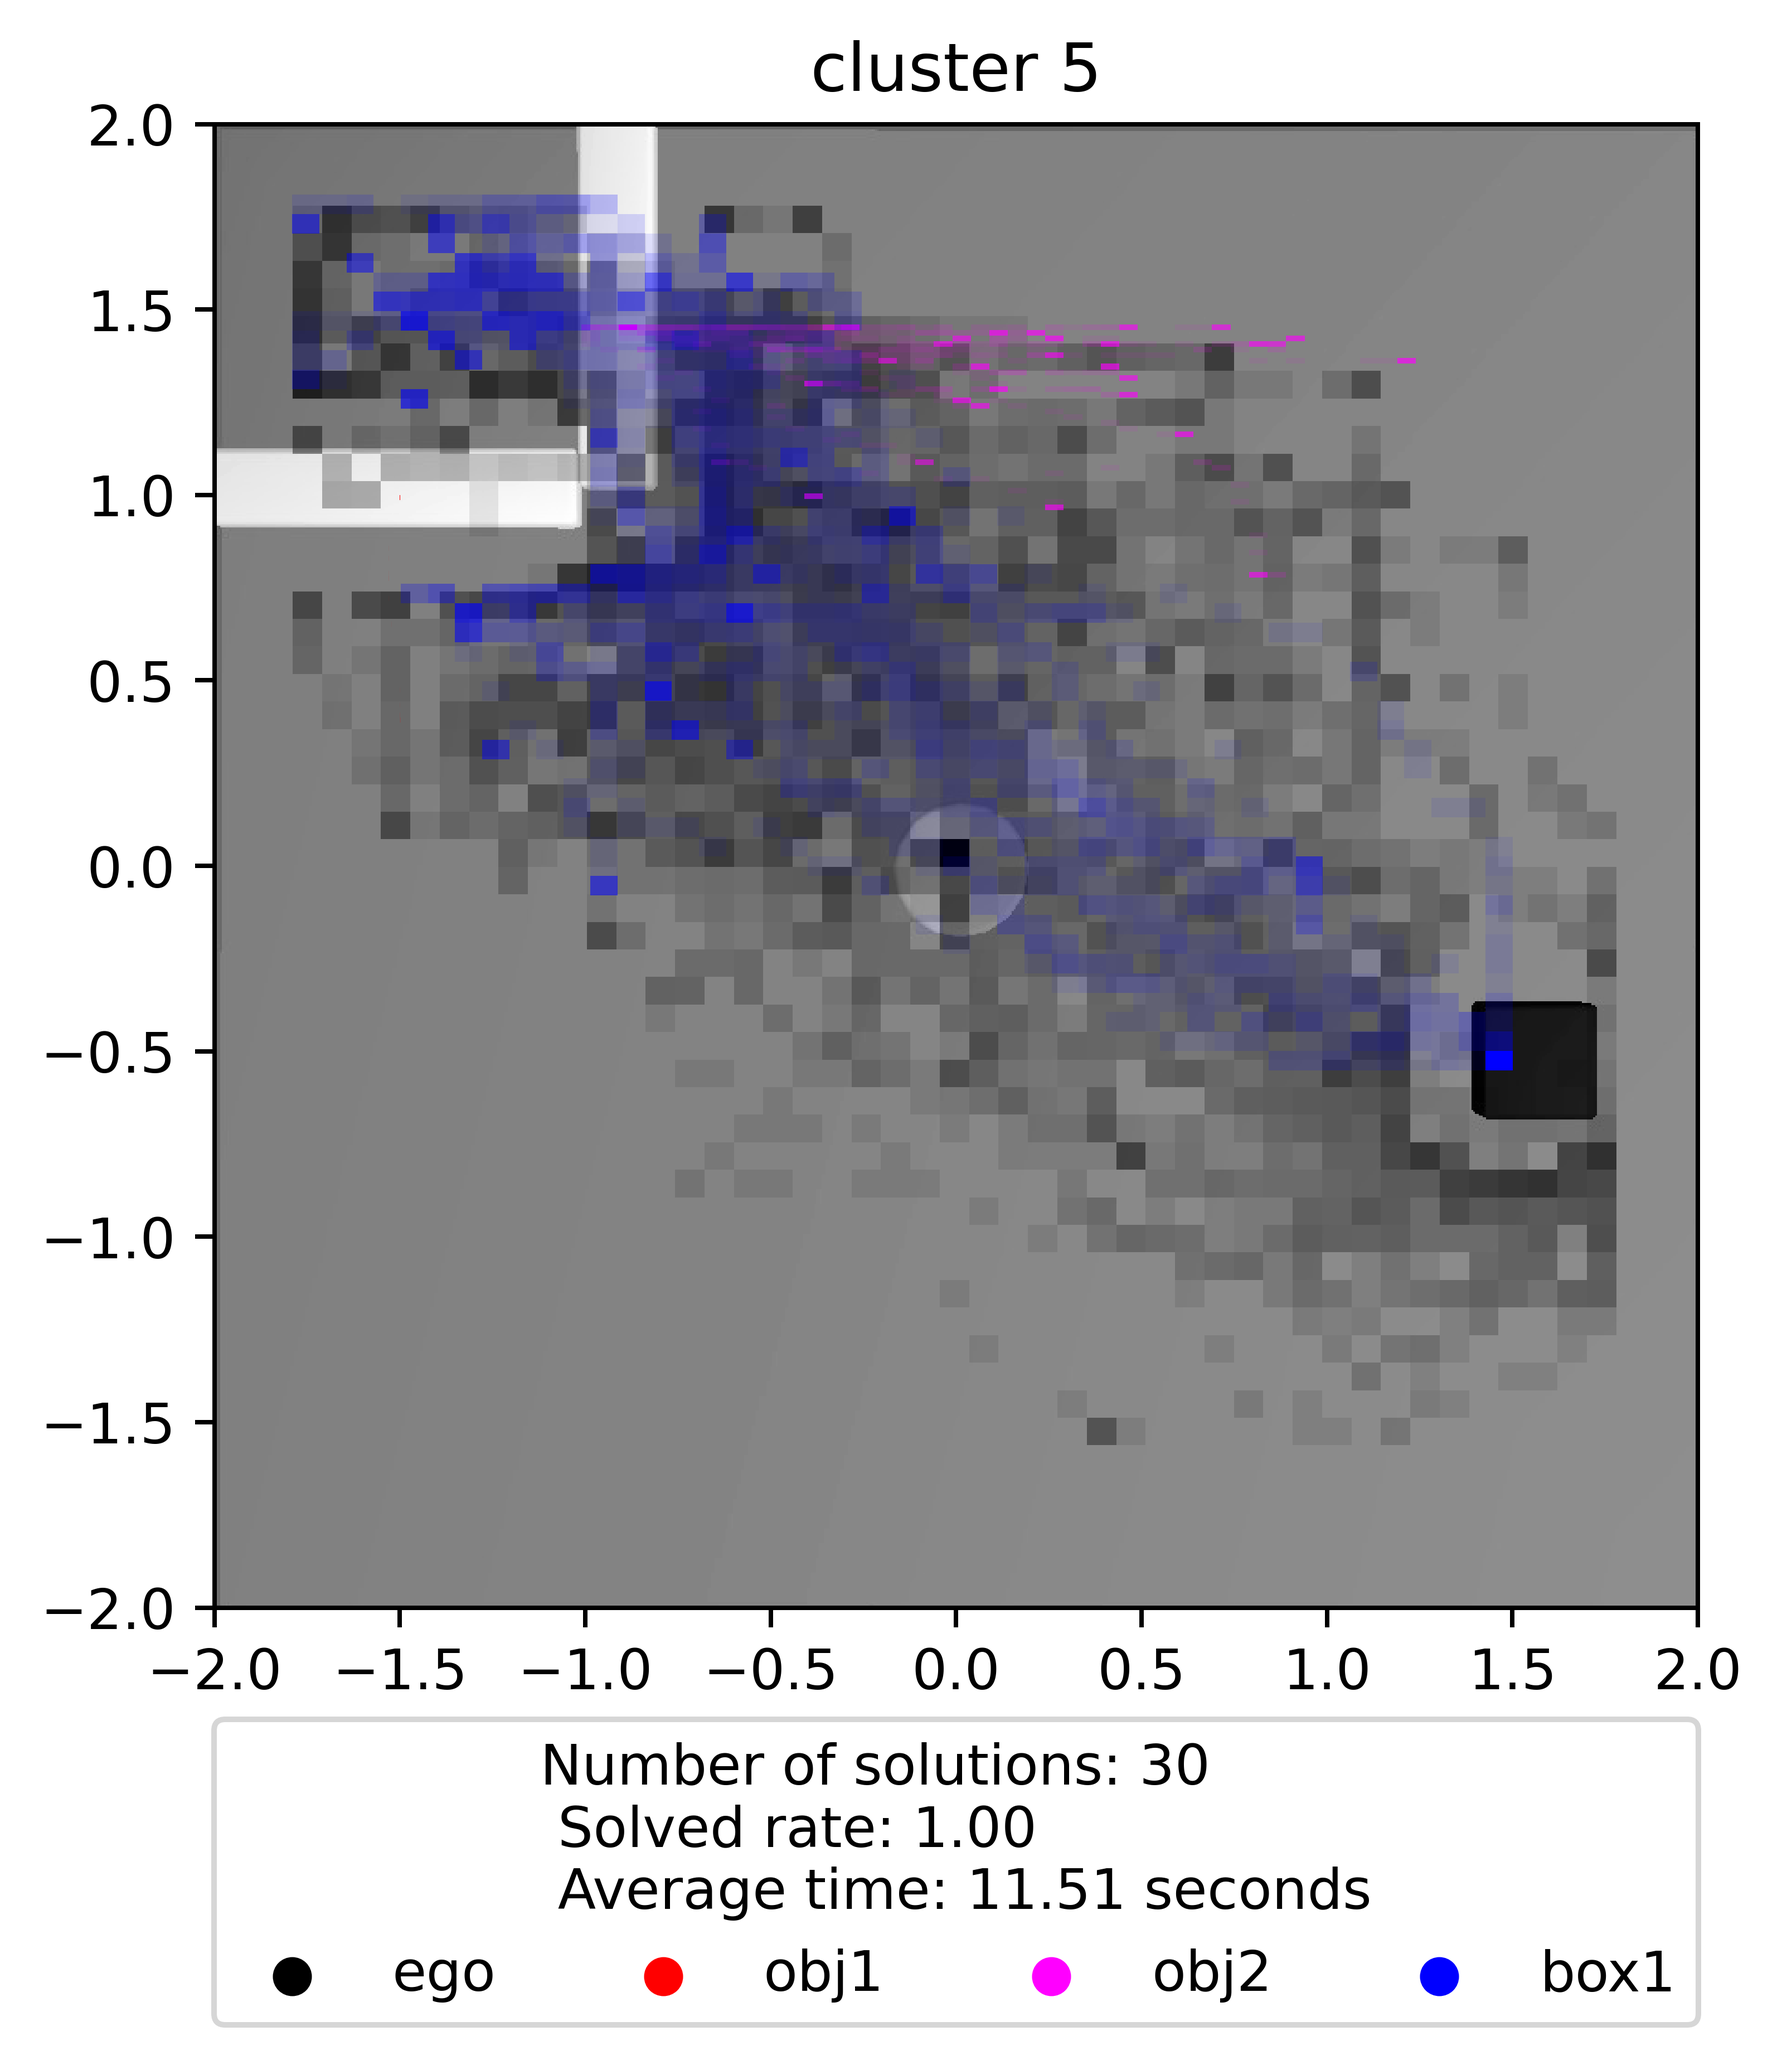
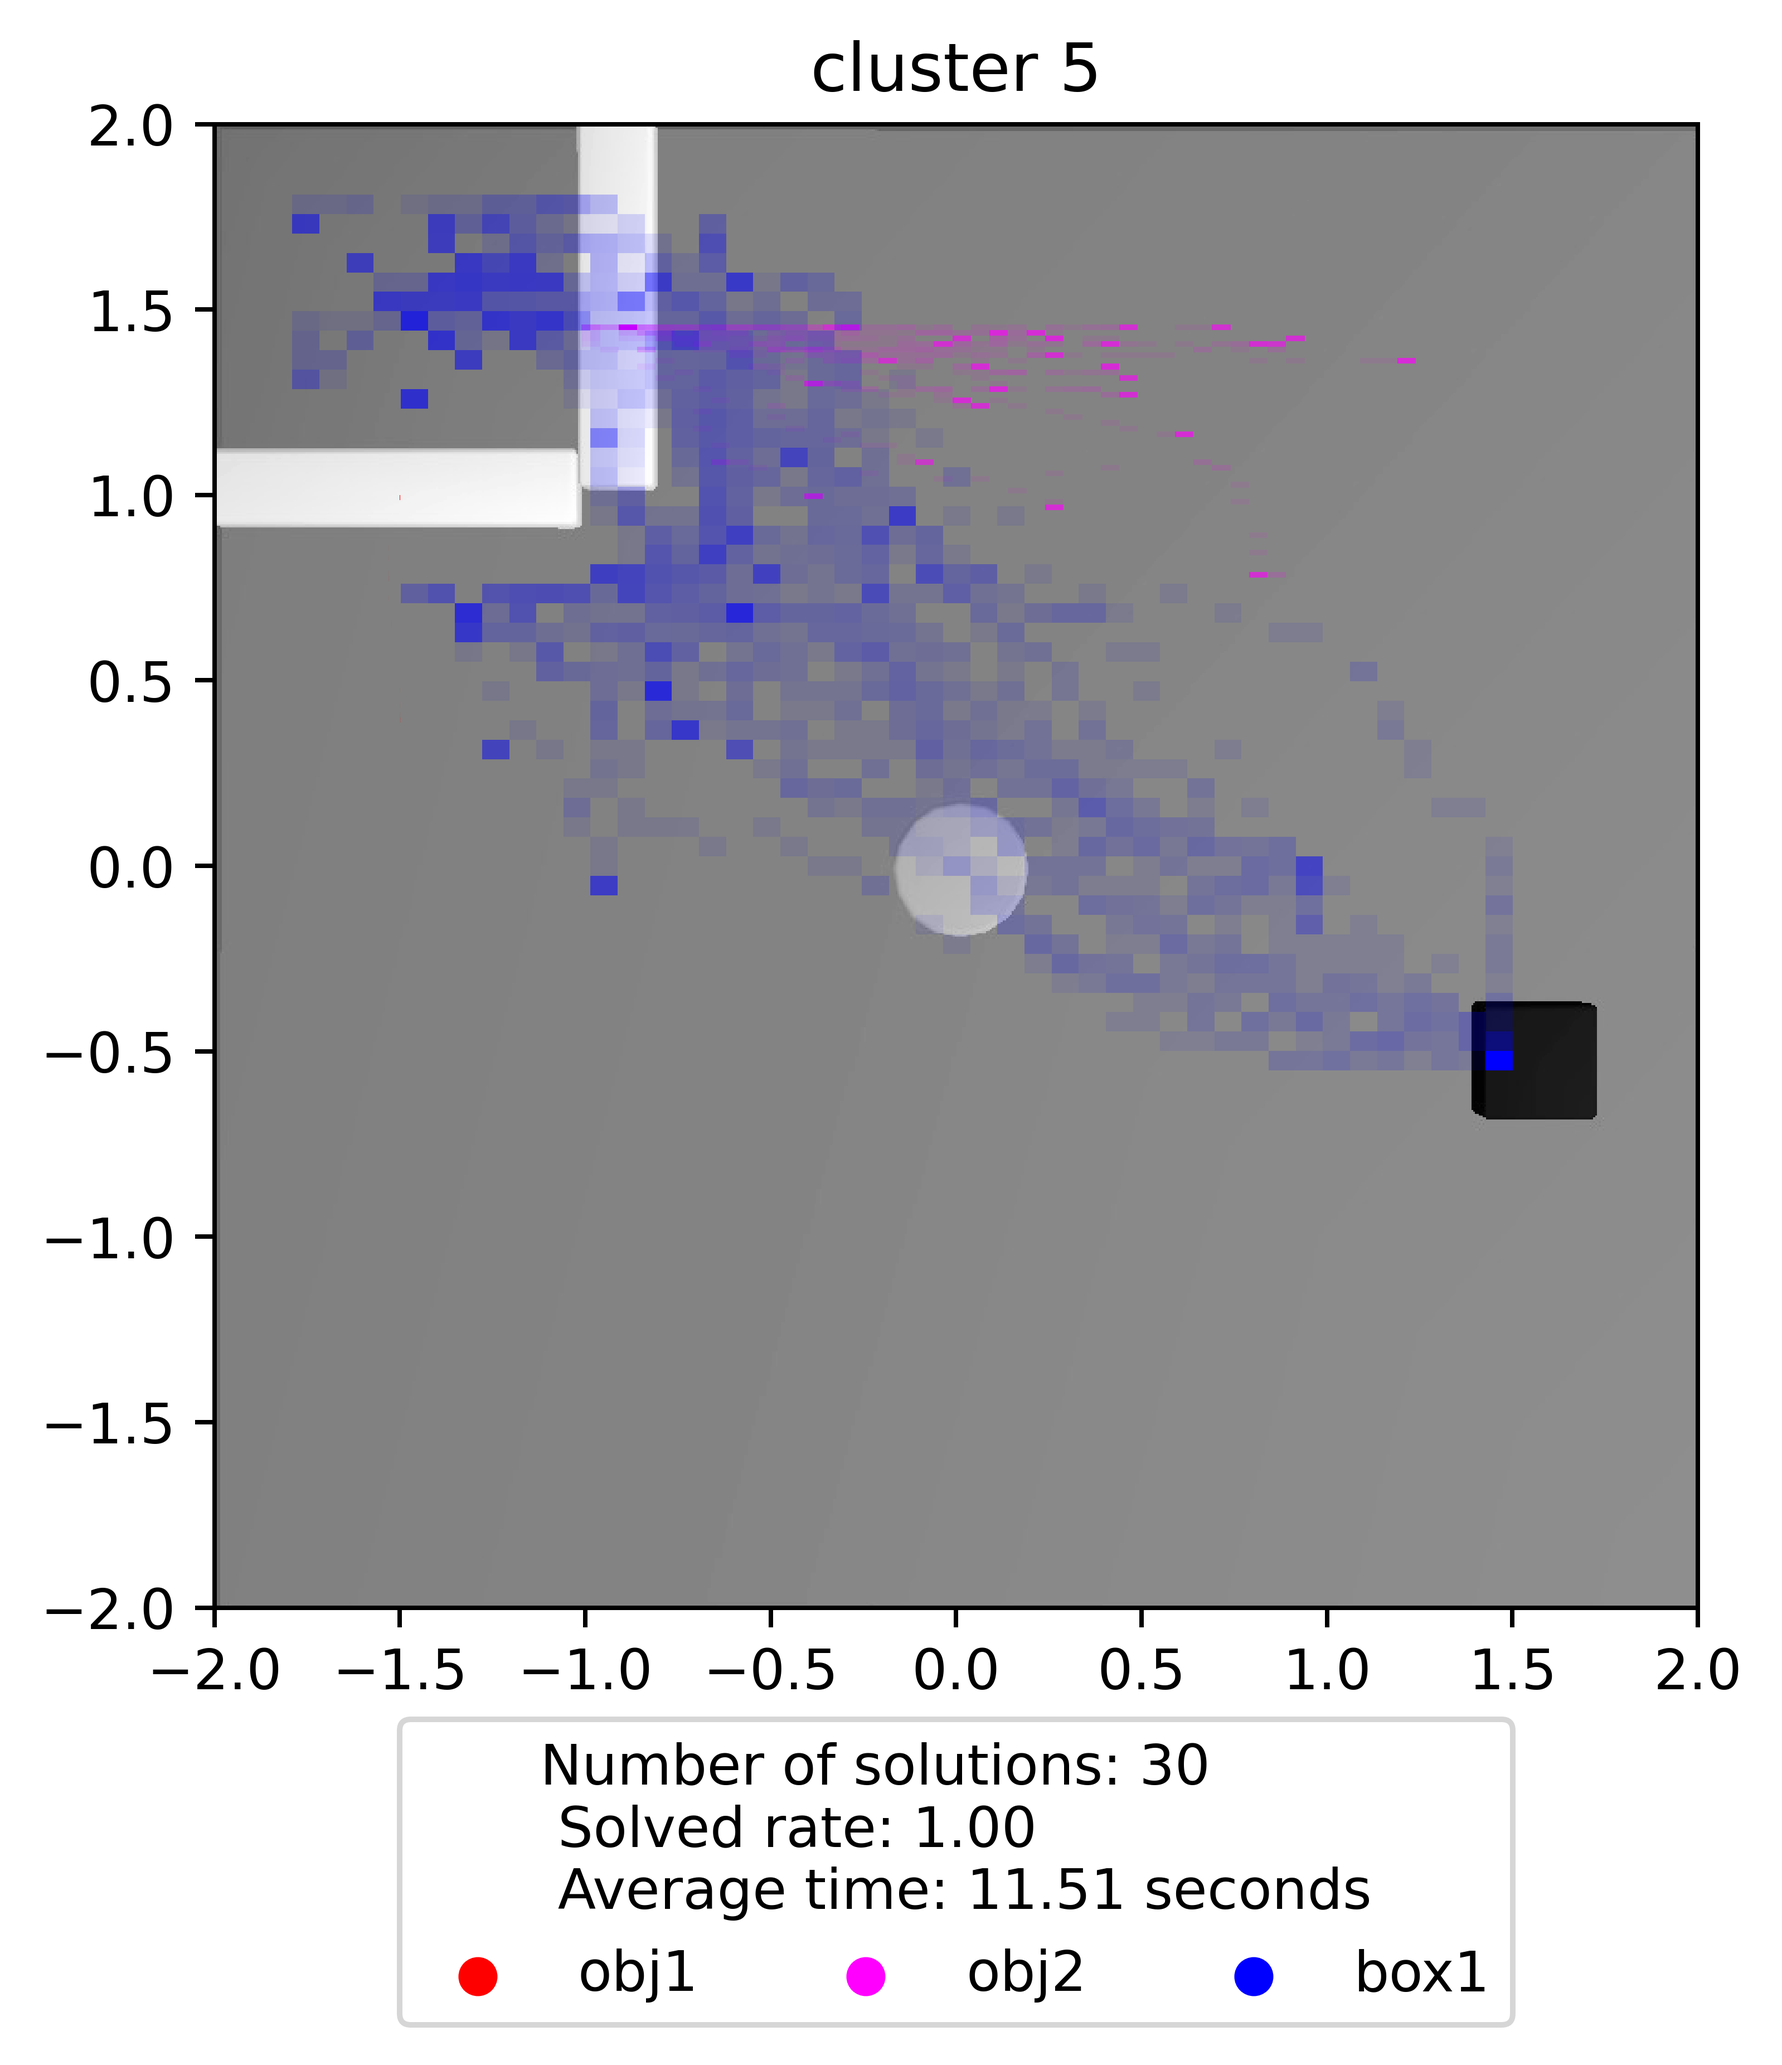
path plots based on frame files added and respective clustering visualization

diff --git a/SRC/attachment.py b/SRC/attachment.py
@@ -15,8 +15,7 @@ def use_regex(input_text):
     puzzle_id = match.group(5)
     attempt = match.group(6)
     return int(particpants), int(run), int(puzzle_id), int(attempt)
-
-def positional_vector(data):
+def positional_vector(data, ignore_ego=False):
     """
     Get the positional vector of the objects from frames json file
 
@@ -34,6 +33,8 @@ def positional_vector(data):
         present_objects[definition["ID"]] = definition["name"]
 
     universal_Objects = ["box1","box2", "obj1","obj2", "obj3","obj4","ego","obj1_a"]
+    if ignore_ego:
+        universal_Objects.remove("ego")
     
     for x in list(present_objects):
         if present_objects[x] not in universal_Objects:
@@ -110,39 +111,53 @@ def attachment_plot(positional_vector, present_objects):
     velocity_vector = positional_vector.diff()
     velocity_vector = velocity_vector.drop(0)
     velocity_vector = velocity_vector.reset_index(drop=True)
-
+    v=np.zeros((len(velocity_vector),len(present_objects)))
     for i, object_i in enumerate(present_objects):
-         
-        
         # print (i, object_i)
         object_i_name = present_objects[object_i]
         vx_i = velocity_vector[positional_vector.columns[i*2][0],'x']
         vx_i=np.array(vx_i, dtype=np.float64)
         vy_i = velocity_vector[positional_vector.columns[i*2][0],'y']
         vy_i=np.array(vy_i, dtype=np.float64)
-        v=np.sqrt(vx_i**2 + vy_i**2)
+        v_temp=np.sqrt(vx_i**2 + vy_i**2)
+        v[:,i]=v_temp
         for t in np.arange(0,T-1):
-             if v[t]>0:
-                  plt.scatter(t, i, color=coloring(present_objects[object_i], True), s=50, marker='s')
-    plt.xlabel('time steps')
+                if v_temp[t]>0:
+                    plt.scatter(t, i, color=coloring(present_objects[object_i], True), s=50, marker='s')
+
+    for t in np.arange(0,T-1):
+        for i, object_i in enumerate(present_objects):
+            for j in range(i+1,len(present_objects)):
+                object_j = list(present_objects.keys())[j]
+                if v[t,i]>0 and v[t,j]>0:
+                    plt.scatter(t, j, color="black", s=20, marker='*')
+                    plt.scatter(t, i, color="black", s=20, marker='*')
+    plt.xlabel('time steps [s]')
     plt.yticks(np.arange(len(present_objects)), present_objects.values())
+    #each time step is 0.01s
+    plt.xticks(np.arange(0,T, 1000), np.arange(0,T/100, 10))
+    plt.savefig('./Plots_Text/attachment_plot_ex.png', dpi=300)
     plt.show()
                   
-                  
-        # for j in range(i+1,len(present_objects)):
-        #     object_j = list(present_objects.keys())[j]
-        #     print (j, object_j)
-        #     object_j_name = present_objects[object_j]
-        #     vx_j = velocity_vector[positional_vector.columns[j*2][0],'x']
-        #     vx_j=np.array(vx_j, dtype=np.float64)
-        #     vy_j = velocity_vector[positional_vector.columns[j*2][0],'y']
-        #     vy_j=np.array(vy_j, dtype=np.float64)
+                    
+    #     for j in range(i+1,len(present_objects)):
+    #         object_j = list(present_objects.keys())[j]
+    #         print (j, object_j)
+    #         object_j_name = present_objects[object_j]
+    #         vx_j = velocity_vector[positional_vector.columns[j*2][0],'x']
+    #         vx_j=np.array(vx_j, dtype=np.float64)
+    #         vy_j = velocity_vector[positional_vector.columns[j*2][0],'y']
+    #         vy_j=np.array(vy_j, dtype=np.float64)
 
-        #     for t in np.arange(0,T-1):
-        #         norm = np.sqrt((vx_i[t]-vx_j[t])**2 + (vy_i[t]-vy_j[t])**2)
-        #         if norm < 0.1:
-        #            print("Objects {} and {} are attached at time {}".format(object_i_name, object_j_name, t))
-
+    #         for t in np.arange(0,T-1):
+    #             norm = np.sqrt((vx_i[t]-vx_j[t])**2 + (vy_i[t]-vy_j[t])**2)
+    #             if norm < 0.1:
+    #                 # print("Objects {} and {} are attached at time {}".format(object_i_name, object_j_name, t))
+    #                 plt.scatter(t, i, color=coloring(present_objects[object_i], True), s=50, marker='s')
+    #                 plt.scatter(t, j, color=coloring(present_objects[object_j], True), s=50, marker='s')
+    # plt.xlabel('time steps')
+    # plt.yticks(np.arange(len(present_objects)), present_objects.values())
+    # plt.show()
 frame_folders = ["./Data/Pilot3/Frames/", "./Data/Pilot4/Frames/"]
 
 for frame_folder in frame_folders:
@@ -150,9 +165,9 @@ for frame_folder in frame_folders:
             for file in frame_files:
                 if file.endswith(".json"):
                     participant_id, run, puzzle, attempt = use_regex(file)
-                    if puzzle == 26 and run == 1 and attempt == 0 and participant_id == 59:
+                    if puzzle == 24 and run == 2 and attempt == 0 and participant_id == 33:
                         # print(file)
                         with open(frame_folder+file) as f:
                             data = json.load(f)
-                            positional_vector, present_objects = positional_vector(data)
+                            positional_vector, present_objects = positional_vector(data, ignore_ego=True)
                             attachment_plot(positional_vector, present_objects)

diff --git a/SRC/clusterPositionalVector.py b/SRC/clusterPositionalVector.py
@@ -230,8 +230,8 @@ frame_folders = ["./Data/Pilot3/Frames/", "./Data/Pilot4/Frames/"]
 
 
 sequence_type="POSVEC"
-pcns=[[1,3],[2,3], [3,3], [4,2], [5,3], [6,3], [21,3], [22,3], [23,2], [24,4], [25,3], [26,4]]
-# pcns=[[26,4]]
+# pcns=[[1,3],[2,3], [3,3], [4,2], [5,3], [6,3], [21,3], [22,3], [23,2], [24,4], [25,3], [26,4]]
+pcns=[[1,5]]
 
 use_saved_linkage = True
 
